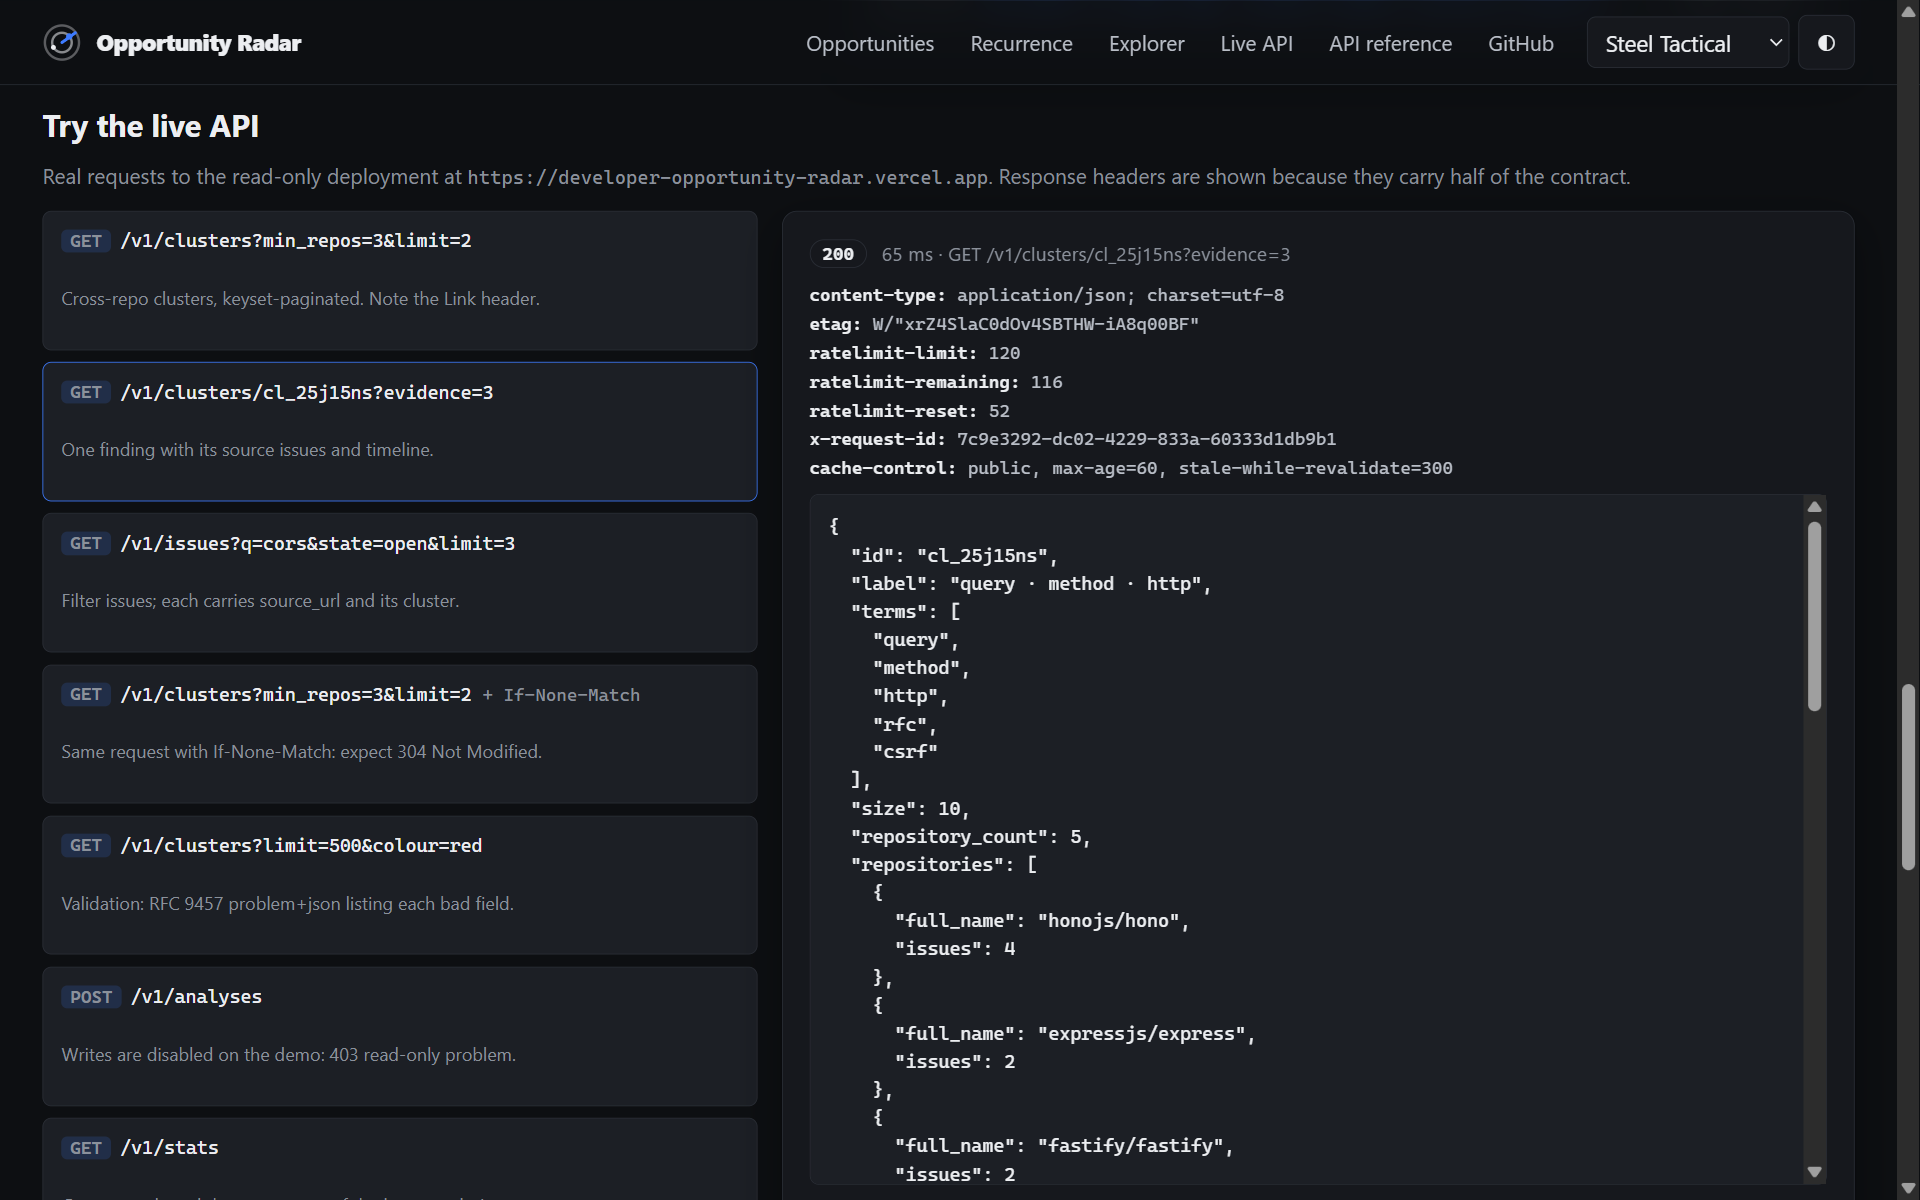
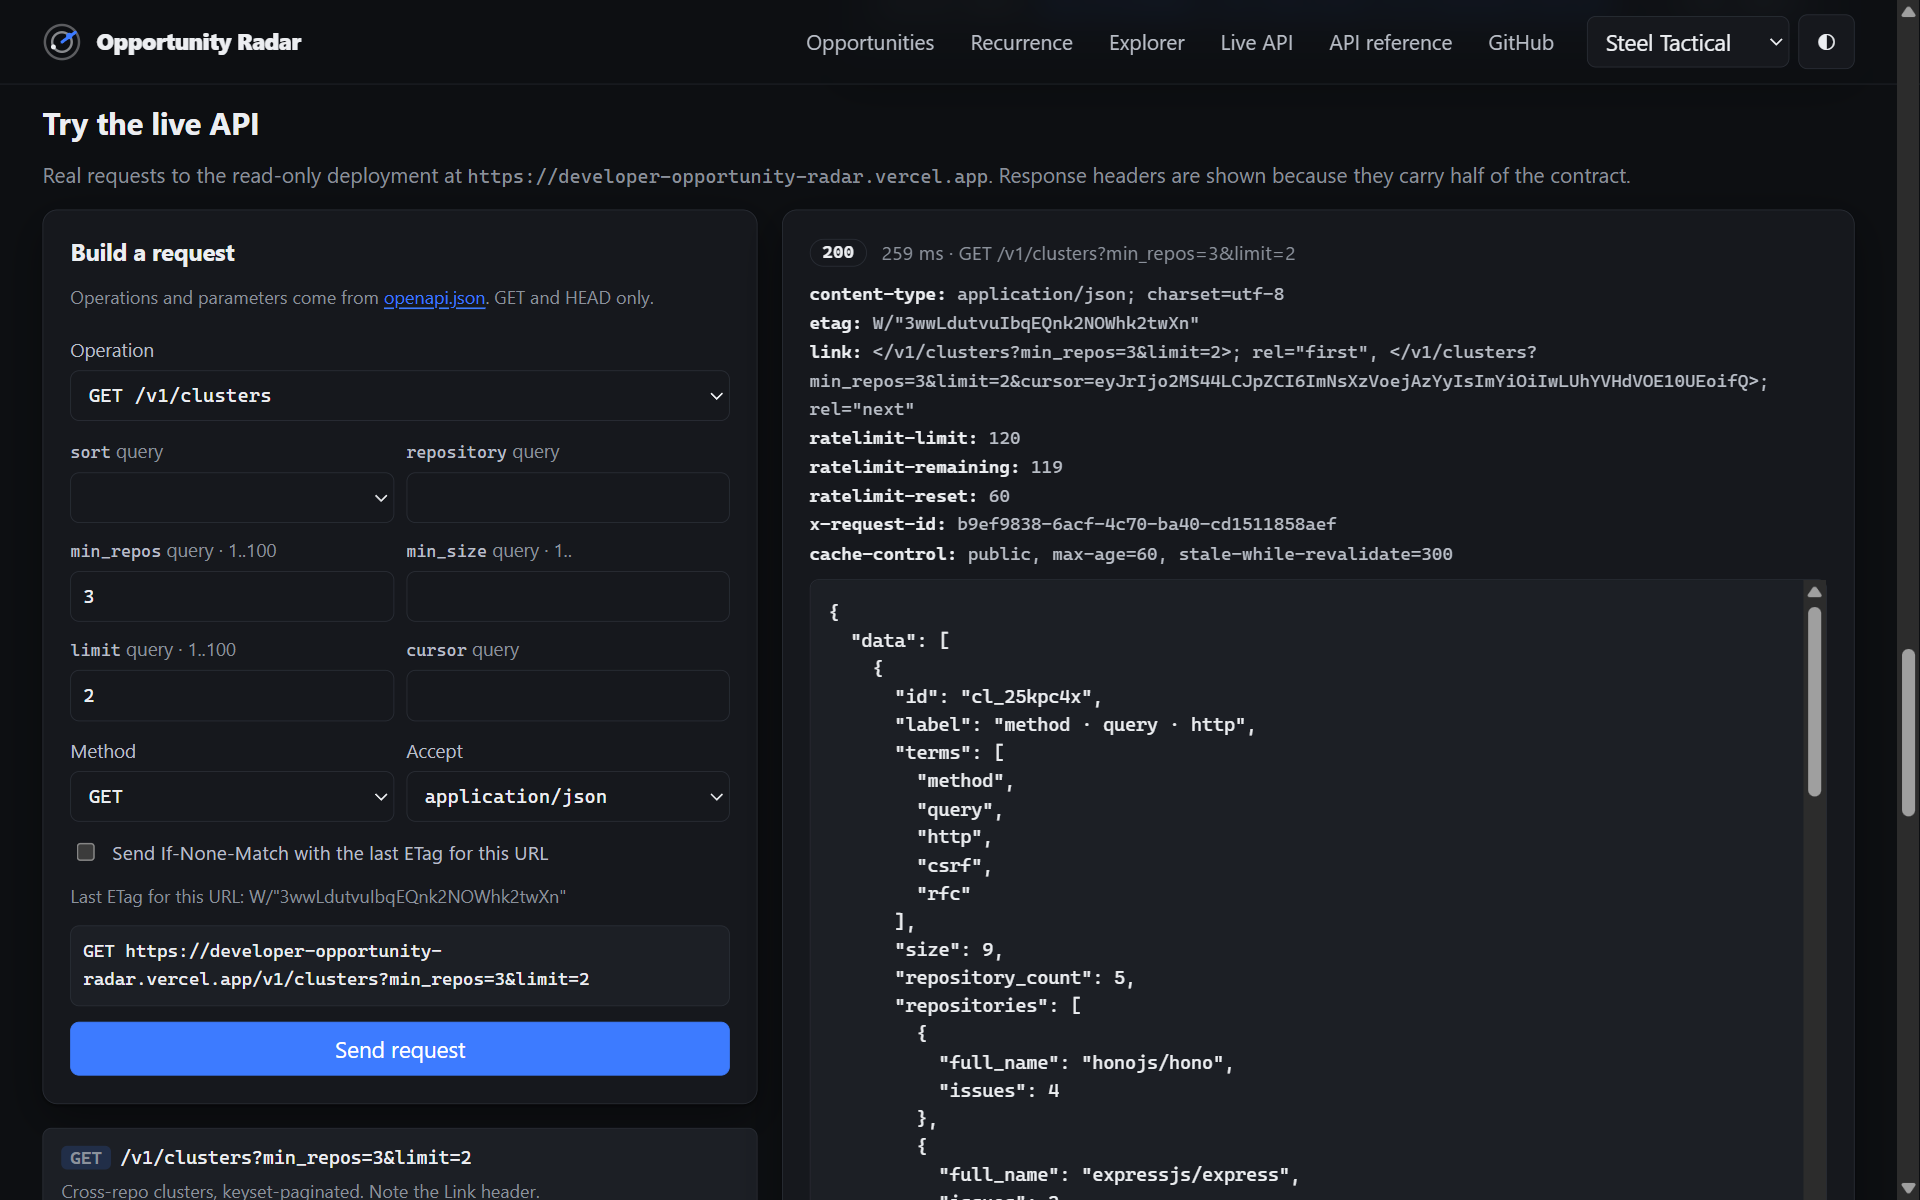
README and CHANGELOG: Vary on Accept, new console screenshot

diff --git a/README.md b/README.md
@@ -59,7 +59,7 @@ curl -i 'https://developer-opportunity-radar.vercel.app/v1/issues?q=cors&state=o
 
 The dashboard's console builds requests from the OpenAPI contract (GET and HEAD only, declared parameters only, path values URL-encoded, and deliberately no field for an API key), sends them to the live API, and shows the response headers, since half of the contract lives there:
 
-![Live API console on the dashboard: a GET for one cluster with its ETag, RateLimit headers and request id](site/assets/screenshots/live-api.png)
+![Live API console: the request builder generated from openapi.json, and a live response with its ETag, Link pagination, RateLimit headers and request id](site/assets/screenshots/live-api.png)
 
 ### HTTP conventions it implements
 
@@ -72,7 +72,7 @@ The dashboard's console builds requests from the OpenAPI contract (GET and HEAD 
 - **Rate limits.** `RateLimit-Limit`, `RateLimit-Remaining` and `RateLimit-Reset` on every response, `Retry-After` on `429`.
 - **Auth.** Writes need `Authorization: Bearer <RADAR_API_KEY>` (`401` + `WWW-Authenticate` otherwise). Without a key, the API is read-only (`403`).
 - **CORS** for browser clients, with the contract headers (`ETag`, `Link`, `Location`, `RateLimit-*`) exposed. Known limitation of the Vercel demo: its 304 responses arrive without CORS headers, so browser JavaScript cannot read a cross-origin 304 there (`curl` and server clients can). Self-hosted, the API sends CORS headers on 304s; a test covers it.
-- **Content negotiation.** `Accept` is parsed with q-values and the most specific range wins, so `application/json;q=0, */*` gets a `406` rather than JSON.
+- **Content negotiation.** `Accept` is parsed with q-values and the most specific range wins, so `application/json;q=0, */*` gets a `406` rather than JSON. Responses carry `Vary: Origin, Accept` so shared caches keep negotiation intact (the live smoke test warms the CDN cache, then checks the 406).
 - **Contract tests.** One test fails if any route exists in the router but not in `openapi.json`, or the other way round. Another validates real responses from every read endpoint against their OpenAPI schemas and treats undocumented fields as errors, so a field added to the code but not the contract fails CI.
 
 ### How it talks to GitHub

diff --git a/CHANGELOG.md b/CHANGELOG.md
@@ -12,6 +12,7 @@ Changed
 - First sync keeps paging (up to 30 pages) until each repository's sample covers the 180-day window. nestjs/nest previously reached back only 83 days, which understated its momentum. Snapshot refreshed: 1,995 issues, 204 clusters.
 - `Accept` negotiation parses q-values; `application/json;q=0, */*` now gets 406.
 - Noise filter catches bracketed placeholders such as `[SPAM]`, and every analysis re-applies it to stored issues.
+- Responses carry `Vary: Origin, Accept`. Found on the live deploy: the CDN served a cached 200 to a client that refused JSON.
 - `Allow` is exposed to browsers via `Access-Control-Expose-Headers`.
 
 Not changed
